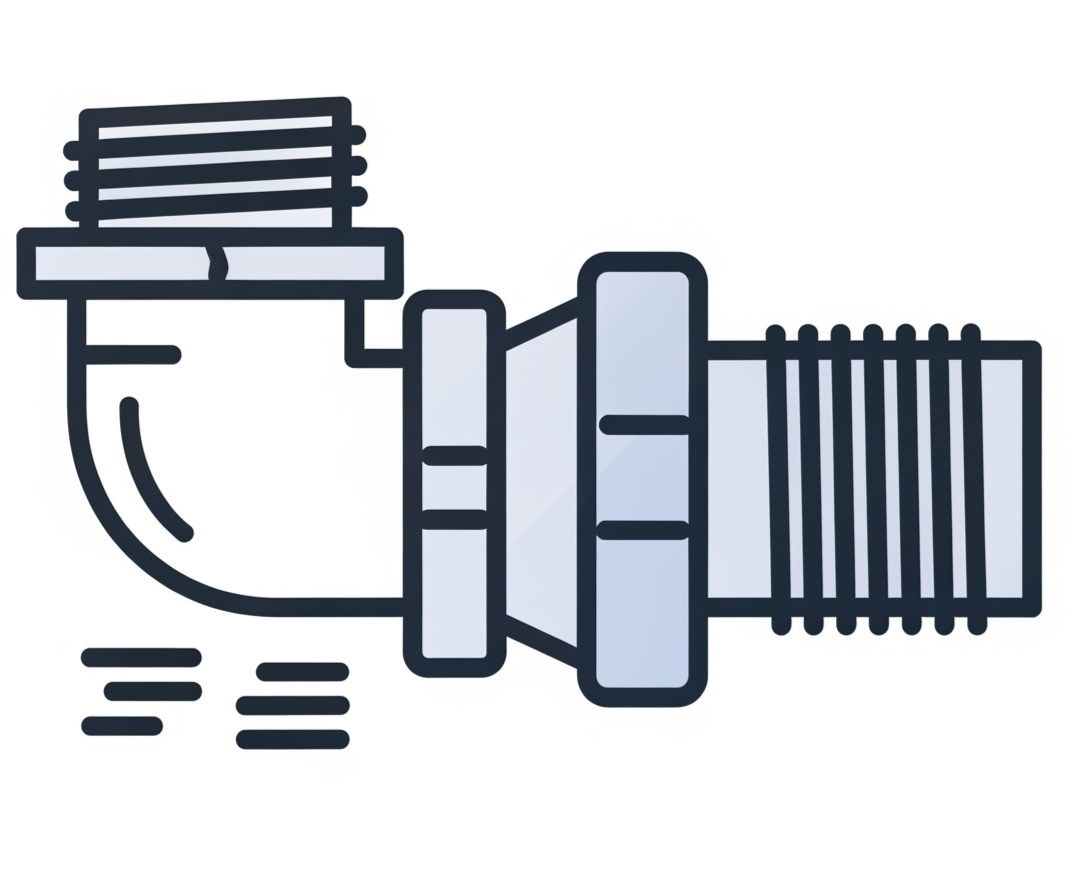
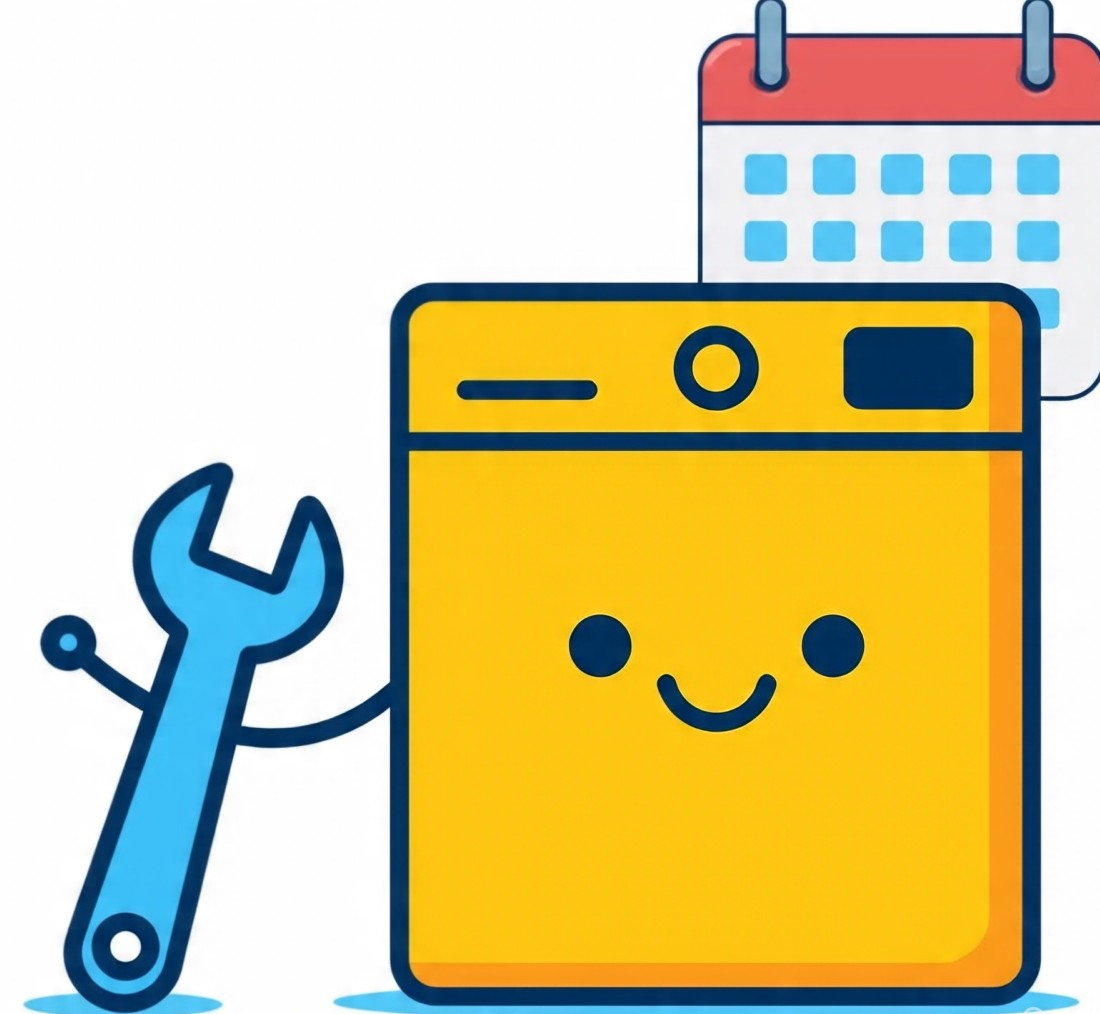
annual maintenance

diff --git a/src/app/TechService/[service]/page.jsx b/src/app/TechService/[service]/page.jsx
@@ -150,20 +150,20 @@ export default function ServicePage({ params }) {
               <div className="grid grid-cols-1 md:grid-cols-2 gap-6">
                 <div>
                   <h3 className="font-semibold text-lg mb-3">What's Included:</h3>
-                  <ul className="list-disc pl-6 space-y-3">
+                  <ul className="list-disc pl-6 space-y-6">
                     {serviceDetails[normalizedService]?.includes.map((item, i) => (
                       <li key={i} className="text-green-600 font-medium">{item}</li>
                     ))}
                   </ul>
                 </div>
-                <div>
+                {/* <div>
                   <h3 className="font-semibold text-lg mb-3">Not Included:</h3>
                   <ul className="list-disc pl-6 space-y-3">
                     {serviceDetails[normalizedService]?.excludes.map((item, i) => (
                       <li key={i} className="text-red-600 font-medium">{item}</li>
                     ))}
                   </ul>
-                </div>
+                </div> */}
               </div>
               <div className="mt-6 bg-cyan-50 p-6 rounded-xl">
                 <h3 className="font-semibold text-lg mb-3">📝 Warranty Information</h3>

diff --git a/src/component/components/Card.tsx b/src/component/components/Card.tsx
@@ -29,8 +29,7 @@ const Card: React.FC<CardProps> = ({ content1, content2, link, image }) => {
             rounded-xl             
             p-2       
             overflow-hidden         
-            transition-all duration-300 ease-in-out
-            hover:shadow-xl       
+            transition-all duration-300 ease-in-out     
             hover:-translate-y-1   
           "
         >

diff --git a/src/component/Small.jsx b/src/component/Small.jsx
@@ -9,6 +9,7 @@ const categories = [
   { img: "/img5.png", label: "Software", id: "software" },
   { img: "/img6.png", label: "Maintenance", id: "maintenance" },
   { img: "/img7.png", label: "Office Services", id: "office" },
+  { img: "/img8.png", label: "Annual Maintanance", id: "annualmain" },
 ];
 
 const Small = () => (

diff --git a/src/component/categories/Cat.jsx b/src/component/categories/Cat.jsx
@@ -45,7 +45,8 @@ const displayService=()=>{
   maintenance: "Maintenance Services",
   handy: "Handyman Services",
   office: "Office Related Services",
-  software: "Software Support Services"
+  software: "Software Support Services",
+  annualmain: "Annual Maintenance"
 };
 return (
     <div>
